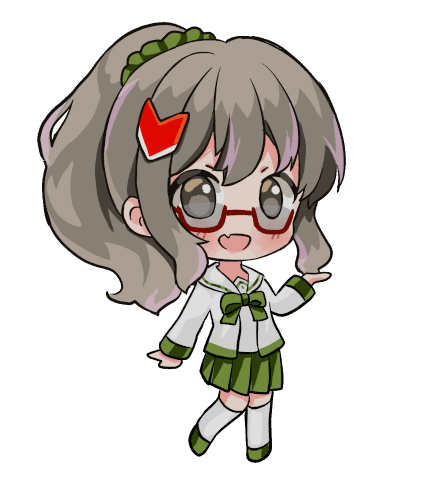
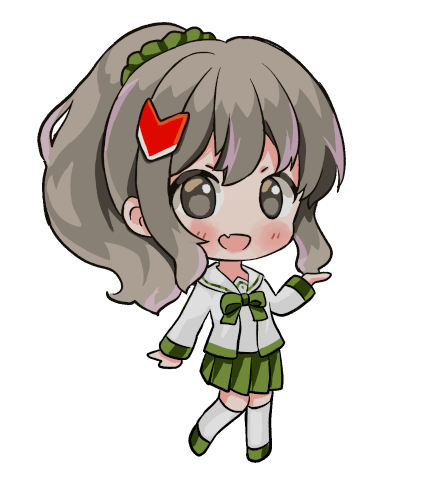
Separate mascot and glasses properly

Changed region(s): [[0.3894, 0.4012, 0.6889, 0.4938]]

diff --git a/tools/serial-client-web/src/App.tsx b/tools/serial-client-web/src/App.tsx
@@ -6,8 +6,8 @@ import { BsBookmark } from 'react-icons/bs';
 import { ImArrowDown, ImArrowUp } from 'react-icons/im';
 
 import {
-  Box, Button, ButtonGroup, Center, Heading,
-  Icon, IconButton, Select, Stack, Tab, TabList,
+  Box, Button, ButtonGroup, Heading, Icon,
+  IconButton, Select, Stack, Tab, TabList,
   TabPanel, TabPanels, Tabs, useColorMode,
 } from '@chakra-ui/react';
 
@@ -69,8 +69,9 @@ function App() {
   };
 
   return (
-    <Box margin={2}>
-      <Stack>
+    <Stack direction="row">
+      <Box flexGrow={1}/>
+      <Stack width="1000px" padding={2}>
         <ButtonGroup>
           <Button onClick={toggleColorMode}>
             {_.capitalize(colorMode)}
@@ -84,8 +85,8 @@ function App() {
           <ColorPicker color={color} onChange={color => updateColor(color)}/>
 
           <Button onClick={() => draw('curve')}>Draw Curve</Button>
-          <Button onClick={() => draw('mascot')}>Draw Mascot w/ Glasses</Button>
-          <Button onClick={() => draw('mascot-no-glasses')}>Draw Mascot</Button>
+          <Button onClick={() => draw('mascot')}>Draw Mascot</Button>
+          <Button onClick={() => draw('mascot-with-glasses')}>Draw Mascot w/ Glasses</Button>
           <Button onClick={() => draw('logo')}>Draw Logo</Button>
           <Button onClick={() => draw('kitsune-text')}>Draw Kitsune Text</Button>
 
@@ -155,7 +156,8 @@ function App() {
           </Stack>
         </Stack>
       </Stack>
-    </Box>
+      <Box flexGrow={1}/>
+    </Stack>
   );
 }
 

diff --git a/tools/serial-client/src/api.ts b/tools/serial-client/src/api.ts
@@ -4,7 +4,7 @@ import { Request } from './request';
 export const images = {
   curve: '7',
   mascot: '8',
-  'mascot-no-glasses': '8g',
+  'mascot-with-glasses': '8g',
   logo: '9',
   'kitsune-text': 'r',
 };

diff --git a/core/fb.c b/core/fb.c
@@ -160,13 +160,13 @@ void draw_mascot() {
   uart_puts(" Done!\r\n");
 }
 
-extern const uint32_t _binary_no_glasses_data_start;
+extern const uint32_t _binary_glasses_data_start;
 
-void draw_no_glasses() {
-  uart_puts("Drawing no glasses...");
+void draw_glasses() {
+  uart_puts("Drawing glasses...");
 
   draw_image(
-    (uint32_t*) &_binary_no_glasses_data_start,
+    (uint32_t*) &_binary_glasses_data_start,
     510 + 169, 280 + 200 // x, y
   );
 

diff --git a/core/main.c b/core/main.c
@@ -404,7 +404,7 @@ void command_handler(char input) {
     case 's': do_enable_cache(); break;
     case 'd': process_device_tree(device_tree); break;
     // case 'f': print_vt_size(); break;
-    case 'g': draw_no_glasses(); break;
+    case 'g': draw_glasses(); break;
     case 'h': print_performance_counter(); break;
     case 'j': set_input_handler(raw_handler); break;
     // case 'k': vt_fill('X'); break;

diff --git a/core/fb.h b/core/fb.h
@@ -8,7 +8,7 @@ void fb_test();
 void fb_test_2();
 void draw_aki();
 void draw_mascot();
-void draw_no_glasses();
+void draw_glasses();
 void draw_logo();
 
 void draw_char(char c, const uint32_t* font, uint32_t x, uint32_t y);
